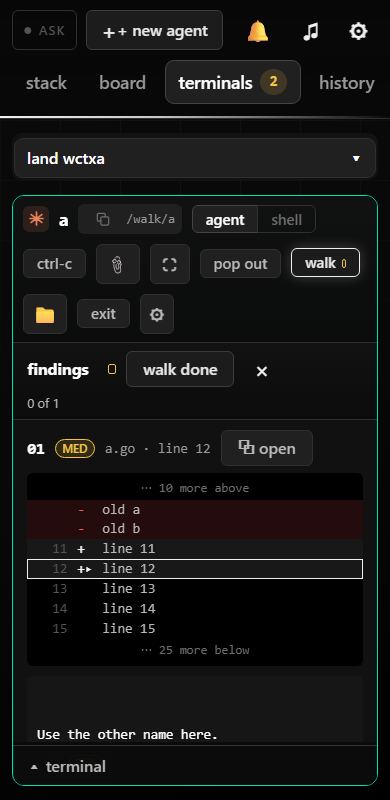
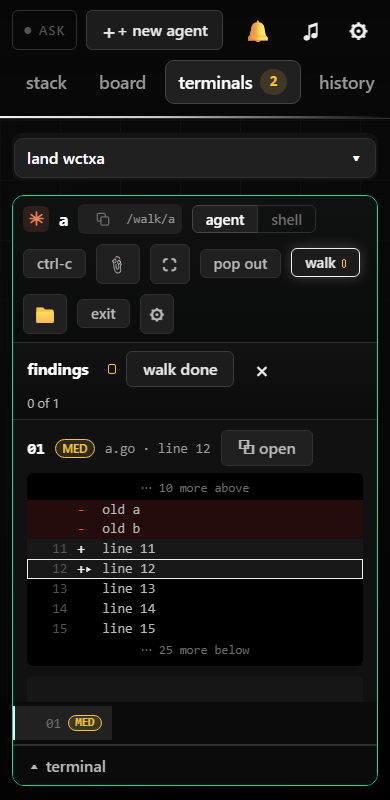
u-008: changelog, item state, screens, rail above the sheet handle

Changed region(s): [[0.0923, 0.875, 0.3385, 0.9375], [0.3692, 0.9062, 0.5538, 0.9375], [0.0308, 0.875, 0.0615, 0.9375]]

diff --git a/scripts/test-board-headless.js b/scripts/test-board-headless.js
@@ -10851,6 +10851,8 @@ async function walkContextSection(browser, base) {
     if (dw.bottom < tb.bottom - 2) fail("walkContext: the finding does not have the whole pane: " + JSON.stringify({ dw, tb }));
     await pp.$eval(S + ".walk-item", e => { e.scrollTop = e.scrollHeight; });
     const lastBtn = await pp.$eval(S + ".wk-actions button:last-child", e => e.getBoundingClientRect().bottom);
+    const railBox = await box(S + ".walk-rail");
+    if (railBox.h < 20 || railBox.bottom > handle.top + 1) fail("walkContext: the rail strip is hidden or under the handle: " + JSON.stringify({ railBox, handle }));
     if (lastBtn > handle.top + 1) fail("walkContext: the handle covers the action buttons: " + lastBtn + " vs " + handle.top);
     await pp.$eval(S + ".walk-item", e => { e.scrollTop = 0; });
     await shot(pp, "phone-shut");

diff --git a/internal/api/web/css/phone.css b/internal/api/web/css/phone.css
@@ -196,7 +196,9 @@
       transition: bottom .18s ease-out;
     }
     .term-body.sheet-open:has(.walk:not([hidden])) .walk-sheet { bottom: 60%; }
-    .term-body:has(.walk:not([hidden])) .walk-item { padding-bottom: 52px; }
+    .term-body:has(.walk:not([hidden])) .walk { padding-bottom: 40px; box-sizing: border-box; }
+    .walk-item { min-height: 0; }
+    .walk-rail { flex: 0 0 auto; }
     .walk-body { flex-direction: column; }
     .walk-rail { width: auto; max-width: none; display: flex; overflow-x: auto; overflow-y: hidden; border-right: none; border-bottom: 1px solid var(--stroke-dim); }
     .wk-row { width: auto; flex: 0 0 auto; }

diff --git a/docs/backlog/ui/u-008.md b/docs/backlog/ui/u-008.md
@@ -1,12 +1,24 @@
 # u-008. The walk drawer's stage 1 leftovers (feature)
 
-Status: not started. Owned by @ui. Left out of u-005 (the walk drawer, `docs/rnd/review-tab-design.md` stage 1) by its
-worker, 2026-09-29.
+Status: done on branch claude/u-008, 2026-10-05. Owned by @ui. Left out of u-005 (the walk drawer,
+`docs/rnd/review-tab-design.md` stage 1) by its worker, 2026-09-29.
 
-- **Context past the hunk.** `⋯ N more above` and `below` grow only within the diff hunk. Section 2.3 says they grow
-  past it when the head tree is in the run folder (the ziti run has `src/`).
-- **Removed lines.** The code block shows the new side only. A `-` line in the hunk is not drawn.
-- **The phone's bottom sheet.** Section 2.9 has the walker's terminal as a sheet pulled up from the bottom. The phone
-  layout today stacks the drawer with the rail as a scrolling strip, and has no sheet.
-- **Not yet looked at in a real browser.** Only headless. Take a screenshot at desktop and phone width, and try it on
-  a live walker card.
+All four were open on claude/main bcdbb267 when checked.
+
+- **Context past the hunk.** Done. `walkTenant.headOf` reads `src/<diff path>` through `files/text` the first time a
+  file is drawn and repaints when it lands. The buttons then grow past the hunk, and the count is the file's own. No
+  `src/` means no change.
+- **Removed lines.** Done. `walkParseDiff` keeps `-` lines as `t: "-"` with no number, drawn `.wk-l.del`.
+- **The phone's bottom sheet.** Done at 900px and below. The terminal is `#t-screen` moved to the bottom and translated
+  off it, with `#walk-sheet` as its handle. `walkSheet()` toggles `.sheet-open` on `.term-body`, and `a` opens it.
+- **Looked at in a real browser.** Headless Chromium over a made-up run folder (no live walker card was used).
+  Screens in `docs/screens/u-008/`. The headless case is `walkContext` in `scripts/test-board-headless.js`.
+
+Not done, on purpose:
+
+- A finding of a pulls row (`GET /v1/prs/{id}/findings`) gets its hunk from the daemon as a string. The drawer parses
+  `-` lines in it the same way, but whether `internal/prreview/render` includes them in the hunk was not checked. Head
+  context for those reads `src/` of the walker card's folder, which is only right if that is the run folder.
+- Only the nearest hunk is spliced into the head context. A second hunk of the same file inside the grown range shows
+  as plain context, without its `-` lines.
+- The sheet height is fixed at 60% and is not draggable.

diff --git a/changelog/ui/2026-10-05-u-008.md b/changelog/ui/2026-10-05-u-008.md
@@ -1,0 +1,12 @@
+# The walk drawer shows removed lines, reads past the hunk, and has a terminal sheet on the phone
+
+The code block in the walk drawer now draws the lines a hunk removes, in a red tint with a `-` and no line number, so a
+change reads as a change. Nothing anchors to a removed line.
+
+When the run folder has the head tree (`src/<path>`), `⋯ N more above` and `⋯ N more below` keep growing past the hunk to
+the top and bottom of the file, and the count says how much of the file is left. Without `src/` they stop at the hunk as
+before.
+
+On a phone the drawer now has the whole pane, with the rail as a strip under the finding, and the terminal is a sheet
+pulled up from the bottom by a handle. Asking the walker (`a`) brings the sheet up. Closing the drawer puts the terminal
+back.
